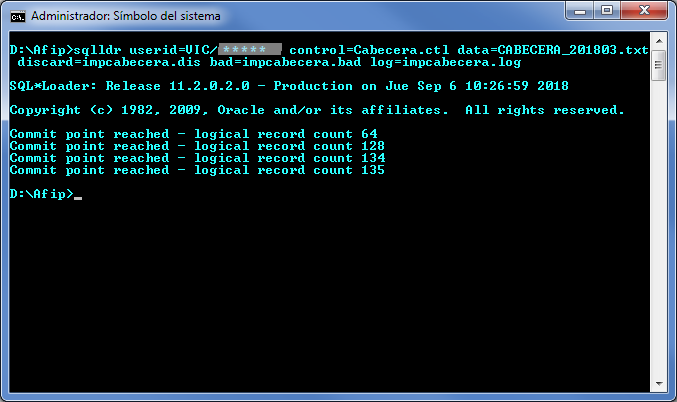
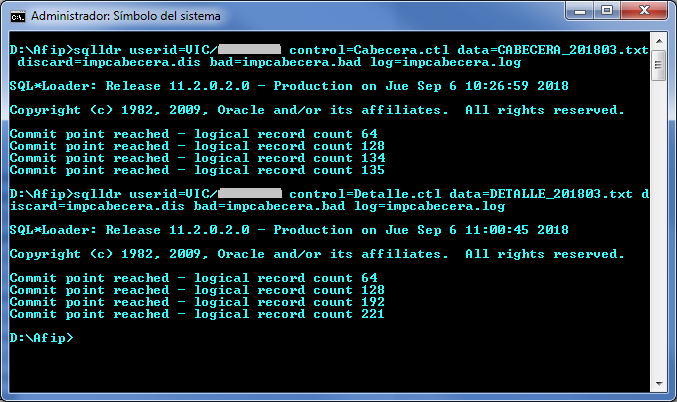
upload facturas afip
Fucionando, faltan detalles

diff --git a/Vicky2018/Afip/ImportarFacturas.md b/Vicky2018/Afip/ImportarFacturas.md
@@ -12,7 +12,6 @@ Las facturas de ventas son generadas via pagina web de afip, los datos son extra
 
 
 ### Estructura BD :
-
     
 ```SQL
 CREATE TABLE  "CABS_FACTURAS" 
@@ -22,7 +21,7 @@ CREATE TABLE  "CABS_FACTURAS"
 	"PUNTO_VENTA" NUMBER(*,0), 
 	"NRO_CAB" NUMBER(*,0), 
 	"CUIT" VARCHAR2(11), 
-	"DFISCAL" VARCHAR2(30), 
+	"DFISCAL" VARCHAR2(80), 
 	"TOTAL_OPERACION" NUMBER(*,2), 
 	"TOTAL_NO_GRAVADO" NUMBER(*,2), 
 	"NETO_GRAVADO" NUMBER(*,2), 
@@ -34,14 +33,34 @@ CREATE TABLE  "CABS_FACTURAS"
 	"IMPORTE_PERCEP_MUNI" NUMBER(*,2), 
 	"IMPORTE_IMP_INTERNOS" NUMBER(*,2), 
 	"CAI" VARCHAR2(14), 
-	CONSTRAINT "CABS_FACTURAS_PK" PRIMARY KEY ("ID") ENABLE
+	 CONSTRAINT "CABS_FACTURAS_PK" PRIMARY KEY ("ID") ENABLE
    )
 /
+CREATE TABLE  "CABS_FACTURAS_DETALLE" 
+(	"ID" NUMBER NOT NULL ENABLE, 
+	"ID_CAB" NUMBER, 
+	"FECHA" DATE, 
+	"TIPO_CAB" NUMBER, 
+	"PUNTO_VENTA" NUMBER, 
+	"NRO_CAB" NUMBER, 
+	"CANTIDAD" NUMBER(*,2), 
+	"UNIDAD" VARCHAR2(2), 
+	"PRECIO" NUMBER(*,2), 
+	"BONIFICACION" NUMBER(*,2), 
+	"AJUSTE" NUMBER(*,2), 
+	"SUBTOTAL" NUMBER(*,2), 
+	"IVA" NUMBER(*,2), 
+	"MODO" VARCHAR2(1), 
+	"ANULADO" VARCHAR2(1), 
+	"TEXTO" VARCHAR2(80), 
+	 CONSTRAINT "CABS_FACTURAS_DETA_ID_PK" PRIMARY KEY ("ID") ENABLE
+   )
 ```
 
 
-Tablas de Paso
+## Tablas Temporales
 
+```SQL
 CREATE TABLE "VIC"."IMPORT_CABECERA" 
 (
 	 Tipo_registro NUMBER,
@@ -75,119 +94,26 @@ CREATE TABLE "VIC"."IMPORT_CABECERA"
 	 Fecha_Vencimiento VARCHAR2(8 BYTE),
 	 Fecha_Anulacion VARCHAR2(8 BYTE)
 );
+```
 
 
 
+## Archivos sqlldr
 
+- archivo para importar CABECERA[Cabecera.md](Cabecera.md)
+- archivo para importar DETALLE[Detalle.md](Detalle.md)
 
-
-IMPORT_FACTURAS.CTL
-
-Load DATA 
-truncate
-INTO TABLE IMPORT_CABECERA
-(
- Tipo_registro 				POSITION(01:01) CHAR,
- Fecha_comprobante 			POSITION(02:09) CHAR,
- Tipo_comprobante 			POSITION(10:11) CHAR,
- Controlador_Fiscal 		POSITION(12:12) CHAR,
- Punto_venta 				POSITION(13:16) CHAR,
- NRO_comprobante 			POSITION(17:24) CHAR,
- NRO_comprobante_registrado POSITION(25:32) CHAR,
- Cantidad_hojas 			POSITION(33:35) CHAR,
- Codigo_documento_comprador POSITION(36:37) CHAR,
- NRO_documento_comprador 	POSITION(38:48) CHAR,
- denominacion_comprador 	POSITION(49:78) CHAR,
- Importe_total_operacion 	POSITION(79:93) CHAR,
- Importe_total_no_gravado 	POSITION(94:108) CHAR,
- Importe_neto_gravado 		POSITION(109:123) CHAR,
- Impuesto_liquidado 		POSITION(124:138) CHAR,
- Impuesto_liquidado_2 		POSITION(139:153) CHAR,
- Importe_oper_exentas 		POSITION(154:168) CHAR,
- Importe_percep_nac 		POSITION(169:183) CHAR,
- Importe_percep_IIBB 		POSITION(184:198) CHAR,
- Importe_percep_Muni 		POSITION(199:213) CHAR,
- Importe_Imp_Internos 		POSITION(214:228) CHAR,
- Transporte 				POSITION(229:243) CHAR,
- Tipo_responsable 			POSITION(244:245) CHAR,
- Codigos_moneda 			POSITION(246:248) CHAR,
- Tipo_cambio 				POSITION(249:258) CHAR,
- Cantidad_alicuotas_IVA 	POSITION(259:259) CHAR,
- Codigo_operacion 			POSITION(260:260) CHAR,
- CAI 						POSITION(261:274) CHAR,
- Fecha_Vencimiento 			POSITION(275:282) CHAR,
- Fecha_Anulacion 			POSITION(283:290) CHAR
-)
-
+## script para procesar informacion
+[afip_import_facturas.sql](afip_import_facturas.sql)
 
 
 ### Ejecucion
-
+```
 D:\> sqlldr userid=VIC/xxxx control=Cabecera.ctl data=CABECERA_YYYYMM.txt discard=impcabecera.dis bad=impcabecera.bad log=impcabecera.log 
-
+D:\> sqlldr userid=VIC/xxxx control=Detalle.ctl data=Detalle_YYYYMM.txt discard=impdetalle.dis bad=impdetalle.bad log=impdetalle.log
+```
 ![sqlrd](/img/import_facturas001.png)
 
 
 
-    
-insert into CABS_FACTURAS (FECHA,TIPO_CAB,PUNTO_VENTA,NRO_CAB,CUIT,DFISCAL,
- total_operacion ,
- total_no_gravado ,
- neto_gravado ,
- Impuesto_1 ,
- Impuesto_2 ,
- Importe_oper_exentas ,
- Importe_percep_nac ,
- Importe_percep_IIBB ,
- Importe_percep_Muni ,
- Importe_Imp_Internos ,
- CAI)
-select
-to_date(FECHA_COMPROBANTE,'YYYYMMDD'),
-TIPO_COMPROBANTE,
-PUNTO_VENTA,
-NRO_COMPROBANTE,
-nro_documento_comprador,
-DENOMINACION_COMPRADOR,
-import_cabecera.importe_total_operacion /100,
-import_cabecera.importe_total_no_gravado/100,
-import_cabecera.importe_neto_gravado/100,
-import_cabecera.impuesto_liquidado/100,
-import_cabecera.impuesto_liquidado_2/100,
-import_cabecera.importe_oper_exentas/100,
-import_cabecera.importe_percep_nac/100,
-import_cabecera.importe_percep_iibb/100,
-import_cabecera.importe_percep_muni/100,
-import_cabecera.importe_imp_internos/100,
-CAI
-from import_cabecera
-where tipo_registro = 1;
-
-
-
-IMPORT_FACTURAS_DETALLE.CTL
-Load DATA 
-TRUNCATE
-INTO TABLE IMPORT_DETALLE
-(
-    tipo_comprobante        POSITION(01:02) CHAR,    
-    controlador_fiscal      POSITION(03:03) CHAR,      
-    fecha_comprobante        POSITION(04:11) CHAR,     
-    punto_venta                POSITION(12:15) CHAR,   
-    nro_comprobante             POSITION(16:23) CHAR,
-    nro_comprobante_registrado  POSITION(24:31) CHAR,
-    cantidad                     POSITION(32:43) CHAR,
-    unidad_medida               POSITION(44:45) CHAR, 
-    precio_unitario              POSITION(46:61) CHAR,
-    importe_bonificacion        POSITION(62:76) CHAR,
-    importe_ajuste              POSITION(77:92) CHAR,
-    subtotal                    POSITION(93:108) CHAR,
-    alicuota_iva               POSITION(109:112) CHAR,  
-    modo                       POSITION(113:113) CHAR, 
-    anulado                    POSITION(114:114) CHAR,   
-    texto    					POSITION(115:189) CHAR
-)
-
-
-D:\> sqlldr userid=VIC/AGOS2018 control=IMPORT_FACTURAS_DETALLE.ctl data=DETALLE_201802.txt discard=impDETALLE.dis bad=impDETALLE.bad log=impDETALLE.log 
 
